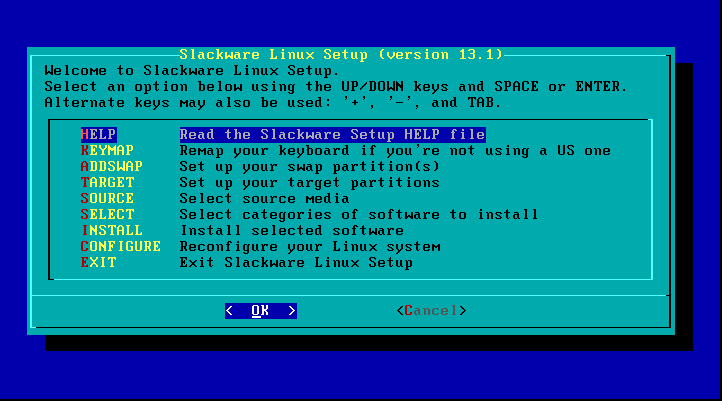
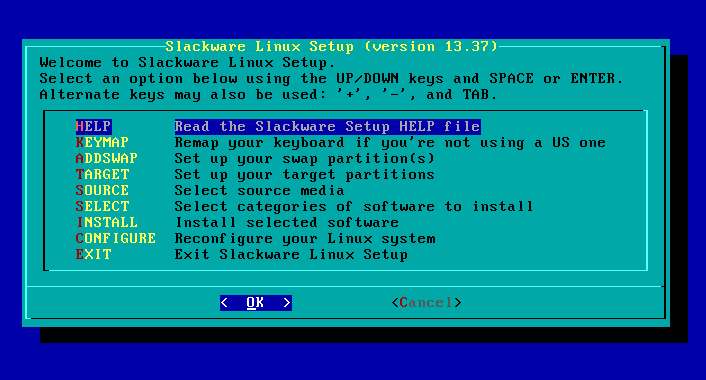
Aantal wijzingen mbt slackware 13.37

Changed region(s): [[0.0, 0.0, 1.0, 1.0]]

diff --git a/dictaat/hoofdstuk_installatie.tex b/dictaat/hoofdstuk_installatie.tex
@@ -21,7 +21,7 @@
 \chapter{Installatie}\label{h.inst}
 In dit complete dictaat is er gekozen voor de \emph{Slackware} distributie. Dit is gedaan omdat het een van de oudste, nog ``levende'' distributies binnen de \emph{Linux} wereld is, maar ook omdat je in \emph{Slackware} ontzettend veel zelf moet doen.
 
-In dit hoofdstuk zal de lezer geholpen worden met het installeren van \emph{Slackware}, om precies te zijn met versie 13.1. De installatie kan plaatsvinden op een fysieke computer, maar ook het gebruik van \emph{VirtualBox} is erg handig. Zie voor het gebruik van \emph{Virtualbox} bijlage \ref{app.virtualbox}. 
+In dit hoofdstuk zal de lezer geholpen worden met het installeren van \emph{Slackware}, om precies te zijn met versie 13.37. De installatie kan plaatsvinden op een fysieke computer, maar ook het gebruik van \emph{VirtualBox} is erg handig. Zie voor het gebruik van \emph{Virtualbox} bijlage \ref{app.virtualbox}. 
 
 Wanneer er een nieuwe versie van \emph{Slackware} uit is als de gebruikte versie in dit document is het altijd aan te raden deze nieuwe versie te gebruiken.
 
@@ -169,7 +169,7 @@ Nu zal er ook nog gekozen moeten worden voor een map op de \emph{mirror server}.
   \caption{Mirror locatie}
   \label{fig:mirror2}
 \end{figure}
-\emph{Slackware} gaat nu controleren of de mirror gegevens kloppen en je krijgt de vraag of je het nogmaals wilt proberen of niet. Je kiest hier uiteraard voor niet.
+\emph{Slackware} gaat nu controleren of de mirror gegevens kloppen en je krijgt, als de gegevens kloppen, de vraag of je het nogmaals wilt proberen of niet. Je kiest hier uiteraard voor niet. 
 
 In dit scherm kan er gespecificeerd worden welke packages ge\"{i}nstalleerd moeten worden. De volgende packages zijn niet nodig, wij willen namelijk geen \emph{GUI} gebruiken. Deselecteer dus de volgende opties: 
 \begin{itemize}
@@ -267,7 +267,7 @@ Na een herstart (\texttt{reboot}\index{fdisk}) kan er ingelogd worden met ``root
 De standaard bootloader van \emph{Slackware} is \emph{LILO}. Omdat \emph{GRUB} gemakkelijker en uitgebreider is, gaan we in dit dictaat gebruik maken van \emph{GRUB}.
 
 \subsection{Downloaden en installeren GRUB}
-In het geval van \emph{GRUB} bestaat er een standaard package om te installeren, maar staat deze enkel in ``extra''. Dit kunnen we vinden in de \emph{PACKAGES.TXT}\footnote{\url{ftp://ftp.fu-berlin.de/unix/linux/mirrors/slackware/slackware-13.1/extra/PACKAGES.TXT}}. Download de \emph{package}, en installeer deze: 
+In het geval van \emph{GRUB} bestaat er een standaard package om te installeren, maar staat deze enkel in ``extra''. Dit kunnen we vinden in de \emph{PACKAGES.TXT}\footnote{\url{ftp://ftp.fu-berlin.de/unix/linux/mirrors/slackware/slackware-13.37/extra/PACKAGES.TXT}}. Download de \emph{package}, en installeer deze: 
 \begin{lstlisting}
 root@slackbak:~# cd /tmp/
 root@slackbak:/tmp# wget "ftp://ftp.fu-berlin.de/unix/linux/mirrors/slackware/slackware/extra/grub/grub-0.97-i486-9.txz"

diff --git a/dictaat/hoofdstuk_xorg.tex b/dictaat/hoofdstuk_xorg.tex
@@ -71,7 +71,7 @@ Op \emph{Slackware} zijn er ook \emph{packages} van \emph{Xorg beschikbaar}. Het
 Er kan gekozen worden om de volledige \emph{X} suite te installeren, of om de minimale delen ervan te kiezen. Omdat het iets gemakkelijker is om de complete \emph{X} suite te installeren zal dat worden gehanteerd in het onderstaande voorbeeld. 
 \begin{lstlisting}
 kevin@slackbak:/tmp$ mkdir x
-kevin@slackbak:/tmp$ cd x; wget -r -A txz -nd ftp://ftp.fu-berlin.de/unix/linux/mirrors/slackware/slackware-13.1/slackware/x/
+kevin@slackbak:/tmp$ cd x; wget -r -A txz -nd ftp://ftp.fu-berlin.de/unix/linux/mirrors/slackware/slackware-13.37/slackware/x/
 [...]
 FINISHED --2010-12-15 17:55:16--
 Downloaded: 299 files, 84M in 9m 34s (150 KB/s)
@@ -85,7 +85,7 @@ Kies als \emph{url} natuurlijk een \emph{mirror} naar keuze uit. Als \texttt{ins
 Er zijn verschillende \emph{window managers} beschikbaar, maar in dit voorbeeld zal \emph{KDE} worden geinstalleerd. Deze \emph{window manager} is ook weer in de \emph{Slackware} repositories te vinden, waardoor het erg gemakkelijk is om op het systeem te zetten. De installatie gaat als volgt:
 \begin{lstlisting}
 kevin@slackbak:/tmp$ mkdir kde
-kevin@slackbak:/tmp$ cd kde; wget -r -A txz -nd ftp://ftp.fu-berlin.de/unix/linux/mirrors/slackware/slackware-13.1/slackware/kde/
+kevin@slackbak:/tmp$ cd kde; wget -r -A txz -nd ftp://ftp.fu-berlin.de/unix/linux/mirrors/slackware/slackware-13.37/slackware/kde/
 [...]
 FINISHED --2010-12-15 13:06:36--
 Downloaded: 35 files, 374M in 6m 4s (1,03 MB/s)
@@ -98,7 +98,7 @@ root@slackbak:/tmp/kde$ installpkg *
 Mocht \emph{KDE} te groot bevonden worden kan er ook naar de veel minimalistischere, maar lichtere desktop omgeving is \emph{Fluxbox} gekeken worden. Ook deze is gemakkelijk in gebruik, maar ontzettend flexibel in de configuratie. De installatie gaat als volgt:
 \begin{lstlisting}
 kevin@slackbak:/tmp$ mkdir fluxbox
-kevin@slackbak:/tmp$ cd fluxbox; wget ftp://ftp.fu-berlin.de/unix/linux/mirrors/slackware/slackware-13.1/slackware/xap/fluxbox-1.1.1-i486-2.txz
+kevin@slackbak:/tmp$ cd fluxbox; wget ftp://ftp.fu-berlin.de/unix/linux/mirrors/slackware/slackware-13.37/slackware/xap/fluxbox-1.1.1-i486-2.txz
 [...]
 2010-12-18 13:27:57 (392 KB/s) - “fluxbox-1.1.1-i486-2.txz” saved [654388]
 kevin@slackbak:/tmp/fluxbox$ su

diff --git a/dictaat/appendix_grub.tex b/dictaat/appendix_grub.tex
@@ -79,7 +79,7 @@ Door de flexibele opzet is \emph{GRUB} ook erg geschikt voor systemen waar het n
 \subsection{GRUB installeren}\label{grub.boot.install}
 Het installeren van \emph{GRUB} is erg gemakkelijk. Er bestaat een \emph{GRUB} \emph{package} die in de \emph{extra} tak van de \emph{repository} te vinden is. Wanneer de package is ge\"{i}nstalleerd kan deze worden geconfigureerd.
 \begin{lstlisting}
-root@slackbak:/# wget ftp://ftp.fu-berlin.de/unix/linux/mirrors/slackware/slackware-13.1/extra/grub/grub-0.97-i486-9.txz
+root@slackbak:/# wget ftp://ftp.fu-berlin.de/unix/linux/mirrors/slackware/slackware-13.37/extra/grub/grub-0.97-i486-9.txz
 root@slackbak:/# installpkg grub-0.97-i486-9.txz
 root@slackbak:/# grubconfig 
 \end{lstlisting}

diff --git a/dictaat/hoofdstuk_basis_commando.tex b/dictaat/hoofdstuk_basis_commando.tex
@@ -290,7 +290,7 @@ Om bestanden van het internet te kunnen downloaden is er het programma \texttt{w
 
 Naast het downloaden via \emph{http} ondersteunt \texttt{wget} ook de mogelijkheid om te downloaden via \emph{ftp}: 
 \begin{lstlisting}
-kevin@slackbak:~$ wget ftp://ftp.fu-berlin.de/unix/linux/mirrors/slackware/slackware64-13.1/source/installer/busybox-1.15.3.tar.bz2    
+kevin@slackbak:~$ wget ftp://ftp.fu-berlin.de/unix/linux/mirrors/slackware/slackware64-13.37/source/installer/busybox-1.15.3.tar.bz2    
 [...]
 
 100%[==============================================>] 1,987,727    985K/s   in 2.0s    
